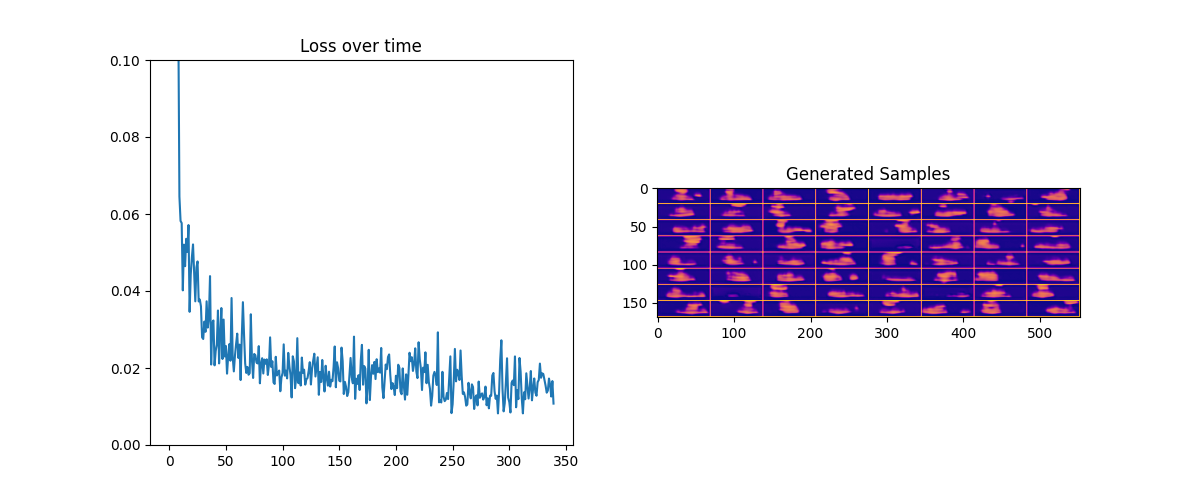
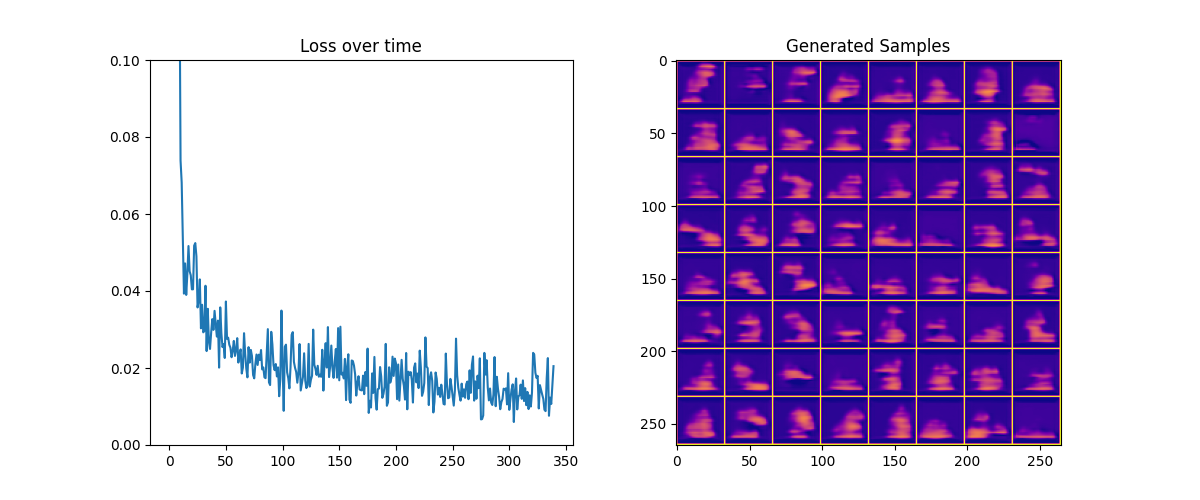
test geo dataset

Changed region(s): [[0.5242, 0.06, 0.925, 0.93], [0.1542, 0.48, 0.4625, 0.84], [0.1233, 0.12, 0.1542, 0.45]]

diff --git a/DDPM/CO2_PLUME_examples/test_flexible_dimension.py b/DDPM/CO2_PLUME_examples/test_flexible_dimension.py
@@ -1,0 +1,60 @@
+'''
+this file reproduce the training process from
+https://github.com/alirezadir/Machine-Learning-Interviews/blob/main/src/MLSD/ml-system-design.md
+'''
+
+import torch
+import torchvision
+from torch import nn
+from torch.nn import functional as F
+from torch.utils.data import DataLoader
+from diffusers import DDPMScheduler, UNet2DModel
+from matplotlib import pyplot as plt
+import os
+import glob
+import sys
+
+# Get the path of the current file
+current_file_path = os.path.abspath(__file__)
+# Get the directory of the current file
+current_dir = os.path.dirname(current_file_path)
+# Get the grandparent directory (two levels up)
+grandparent_dir = os.path.abspath(os.path.join(current_dir, '..', '..'))
+# Add the grandparent directory to sys.path
+sys.path.insert(0, grandparent_dir)
+
+from utility import Plume2D_dataloader
+from viz import show_generated_samples
+
+device = torch.device("cuda" if torch.cuda.is_available() else "cpu")
+print(f'Using device: {device}')
+
+# Create the network
+net = UNet2DModel(
+    sample_size=(20,68),  # the target image resolution
+    in_channels=1,  # the number of input channels, 3 for RGB images
+    out_channels=1,  # the number of output channels
+    layers_per_block=2,  # how many ResNet layers to use per UNet block
+    block_out_channels=(32, 64, 64),  # Roughly matching our basic unet example
+    down_block_types=( 
+        "DownBlock2D",  # a regular ResNet downsampling block
+        "AttnDownBlock2D",  # a ResNet downsampling block with spatial self-attention
+        "AttnDownBlock2D",
+    ), 
+    up_block_types=(
+        "AttnUpBlock2D", 
+        "AttnUpBlock2D",  # a ResNet upsampling block with spatial self-attention
+        "UpBlock2D",   # a regular ResNet upsampling block
+      ),
+) #<<<
+net.to(device)
+
+x = torch.rand(64, 1, 20, 68).to(device)
+pred = net(x, 0).sample
+
+# print(pred.shape)
+
+
+
+
+

diff --git a/DDPM/Geo_examples/main_geo.py b/DDPM/Geo_examples/main_geo.py
@@ -23,7 +23,7 @@ grandparent_dir = os.path.abspath(os.path.join(current_dir, '..', '..'))
 # Add the grandparent directory to sys.path
 sys.path.insert(0, grandparent_dir)
 
-from utility import Plume2D_dataloader
+from utility import fluvial_dataloader
 from viz import show_generated_samples
 
 device = torch.device("cuda" if torch.cuda.is_available() else "cpu")
@@ -51,12 +51,12 @@ def monitoring(losses, net, save_folder='monitor', epoch=None):
 
     # Losses
     axs[0].plot(losses)
-    axs[0].set_ylim(0, 0.1)
+    # axs[0].set_ylim(0, 0.1)
     axs[0].set_title('Loss over time')
 
     # Samples
     n_steps = 40
-    x = torch.rand(64, 1, 32, 32).to(device)
+    x = torch.rand(64, 1, 64, 64).to(device)
     print('x.shape:', x.shape)
     for i in range(n_steps):
         noise_amount = torch.ones((x.shape[0], )).to(device) * (1-(i/n_steps)) # Starting high going low
@@ -79,14 +79,14 @@ def monitoring(losses, net, save_folder='monitor', epoch=None):
 
 
 # load the MNIST dataset
-train_dataloader = Plume2D_dataloader(batch_size = 32)
+train_dataloader = fluvial_dataloader(batch_size = 32)
 
 # How many runs through the data should we do?
 n_epochs = 20
 
 # Create the network
 net = UNet2DModel(
-    sample_size=(20,68),  # the target image resolution
+    sample_size=(64,64),  # the target image resolution
     in_channels=1,  # the number of input channels, 3 for RGB images
     out_channels=1,  # the number of output channels
     layers_per_block=2,  # how many ResNet layers to use per UNet block
@@ -148,8 +148,6 @@ for epoch in range(n_epochs):
     # Print our the average of the loss values for this epoch:
     avg_loss = sum(losses[-len(train_dataloader):])/len(train_dataloader)
     print(f'Finished epoch {epoch}. Average loss for this epoch: {avg_loss:05f}')
-
-
 
 
 
